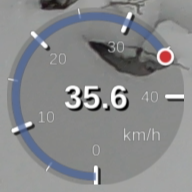
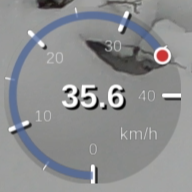
Improve speed graphics

diff --git a/SpeedGraphic.c b/SpeedGraphic.c
@@ -73,9 +73,15 @@ static void generateBackGround(){
 		 * Background 
 		 */
 
+// 	cairo_set_source_rgba(cr, 0,0,0, 0.15);
+// cairo_set_source_rgba(cr, 1,0.25,0.25, 0.25);
+
+	cairo_pattern_t *pat = cairo_pattern_create_radial(GFX_SZ/3,GFX_SZ/3, GFX_SZ/2, 0,0, GFX_SZ/3);
+	cairo_pattern_add_color_stop_rgba(pat, 0, 0,0,0, 0.15);
+	cairo_pattern_add_color_stop_rgba(pat, 1, 0.6,0.6,0.6, 0.15);
+	cairo_set_source(cr, pat);
+
 	cairo_arc(cr, GFX_SZ/2, GFX_SZ/2 , GFX_SZ/2, 0, 2 * M_PI);
-	cairo_set_source_rgba(cr, 0,0,0, 0.15);
-//cairo_set_source_rgba(cr, 1,0.25,0.25, 0.25);
 	cairo_fill(cr);
 	cairo_stroke(cr);
 
